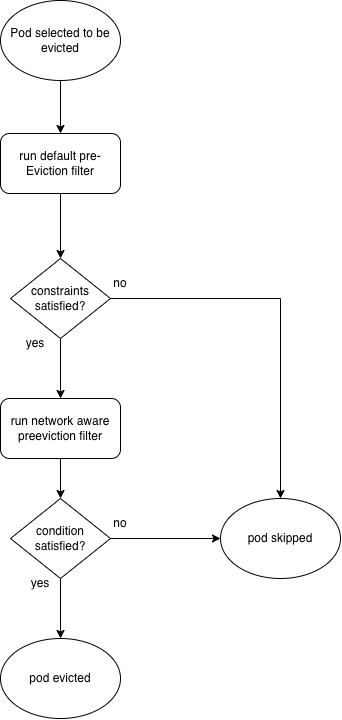
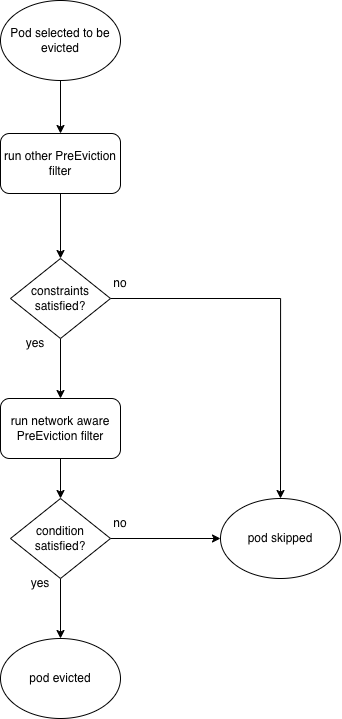
add netaware flow diagram logic on 4.4 system overview

diff --git a/src/01-body/bab3.tex b/src/01-body/bab3.tex
@@ -312,13 +312,15 @@ The system has a two-layers plugin architecture. The first layer is a global Pre
 	\label{fig:netaware_sysoverview}
 \end{figure}
 
-The overall design of the Network-Aware Descheduler plugin is presented in Figure \ref{fig:netaware_sysoverview}. The system has two distinct independent components that can be deployed optionally as descheduler policy.
+The overall network-aware filtering system of the plugin is presented in Figure \ref{fig:netaware_sysoverview}. When an eviction candidate is evaluated, the process operates as a sequence of decision gates through the following steps:
 
-The first component is a global PreEvictionFilter plugin, which is the \textit{NetworkCostEvictor}. To avoid descheduler process resulting higher network costs, it compares eviction candidates current node with all scheduleable nodes in the cluster. This ensures that the communication efficiency at the cluster level is not degraded due to pod migration.
+First, the plugin inspects the candidate pod to determine if a network dependency label exists. If the pod has no defined dependencies, it is considered a network-unaware workload, and the plugin immediately allows the eviction since relocating it will not disrupt critical communication paths.
 
-The second plugin is integrated into node utilization based approaches, such as \textit{LowNodeUtilization} and \textit{HighNodeUtilization}. This plugin performs network-aware filtering by assessing only the selected subset of nodes that are recognized as potential destinations (e.g. overutilize/underutilize node). This enables a more specific evaluation better aligned with the resource balancing goals of the descheduler.
+If a dependency label is found, the plugin proceeds to discover all related dependency pods currently running in the cluster. It then calculates the baseline network cost by computing the communication overhead between the candidate pod's current node and all nodes hosting its dependencies.
 
-Both components use a network cost model \ref{sec:netaware_costmodel} to estimate communication costs between pods. During the eviction process, the algorithm evaluates the cost of the pod's current placement in comparison to alternative placements. If the eviction does not maintain or improve the performance of the network, it is blocked. Otherwise, the eviction is permitted.
+Next, the plugin retrieves a set of potential candidate destination nodes. Depending on the deployment configuration, these candidates can either be all schedulable nodes in the cluster (when operating as a global \textit{PreEvictionFilter}) or a specific subset of overutilized or underutilized nodes gathered from a node utilization strategy. For each of these candidate nodes, it computes the hypothetical network cost that would occur if the pod were rescheduled to that location. The algorithm then counts the number of candidate nodes whose resulting network cost is less than or equal to the baseline cost of the current node.
+
+Finally, the eviction decision is made by comparing this count against a threshold requirement. If the number of equal or better candidate nodes is greater than or equal to the total number of candidates multiplied by a configured threshold percentage (Candidate count $\geq$ totalCandidates $\times$ threshold), the eviction is allowed. If this condition is not met, indicating that a relocation would likely degrade network performance, the eviction is blocked.
 
 %----------------------------------------------------------------------------- %%
 \subsection{Architecture Design}